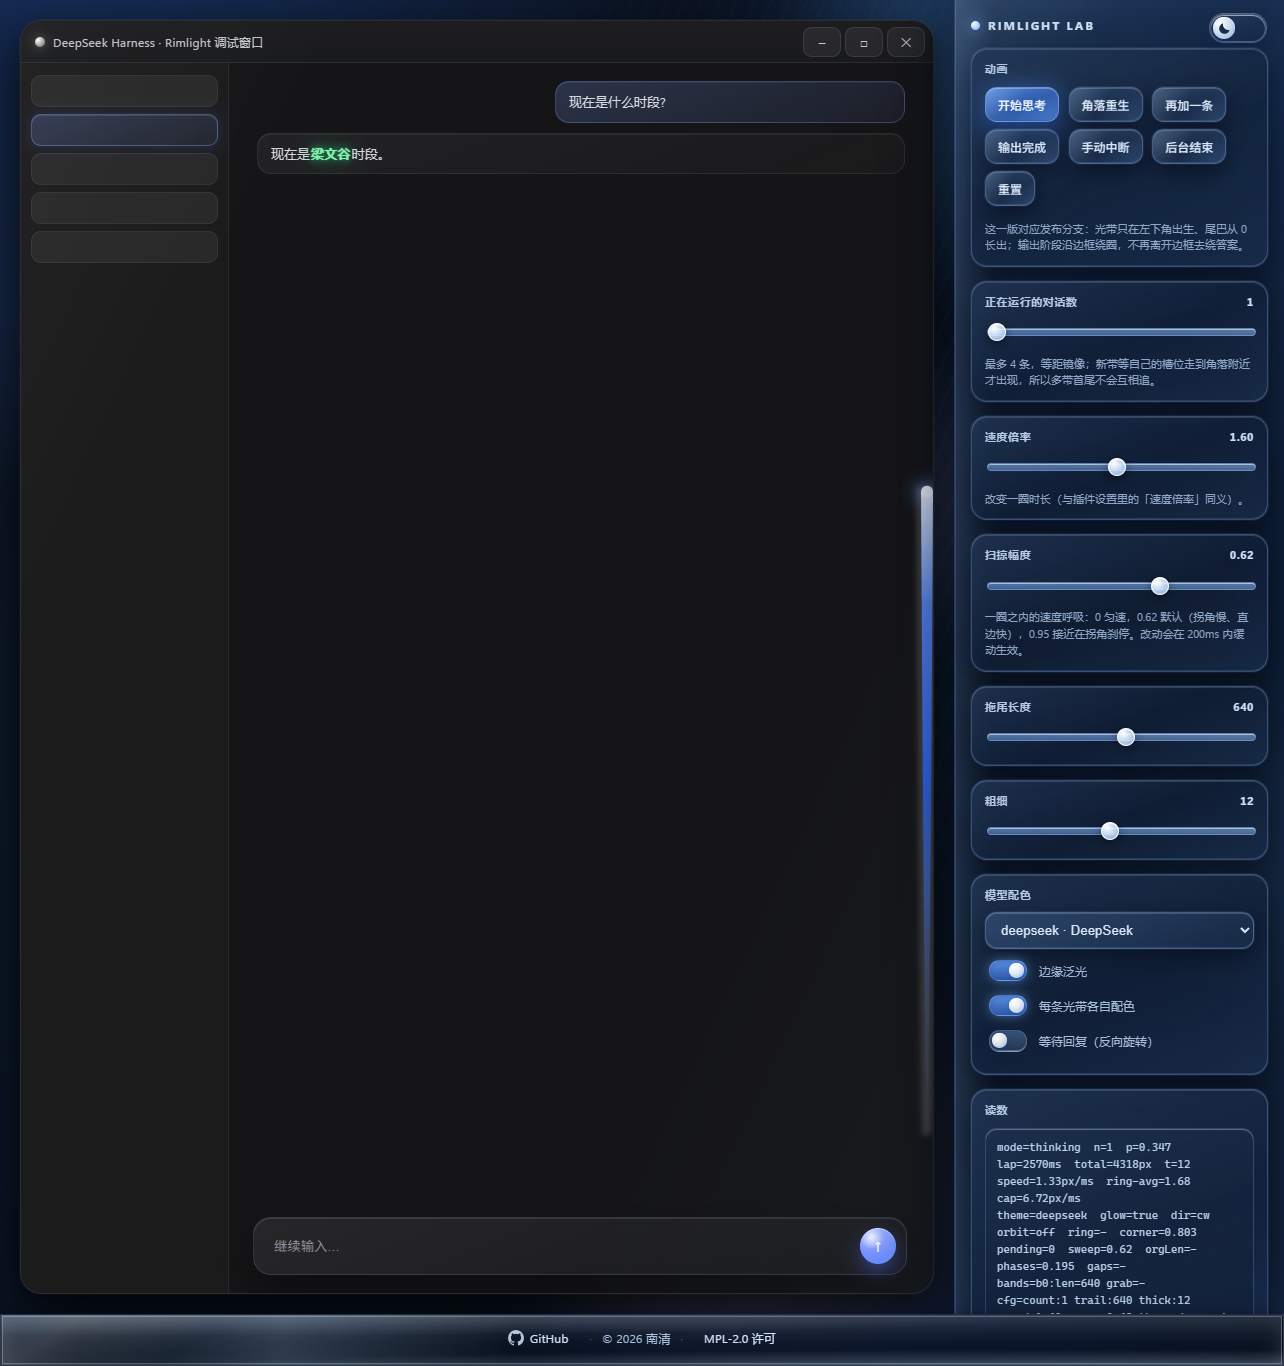
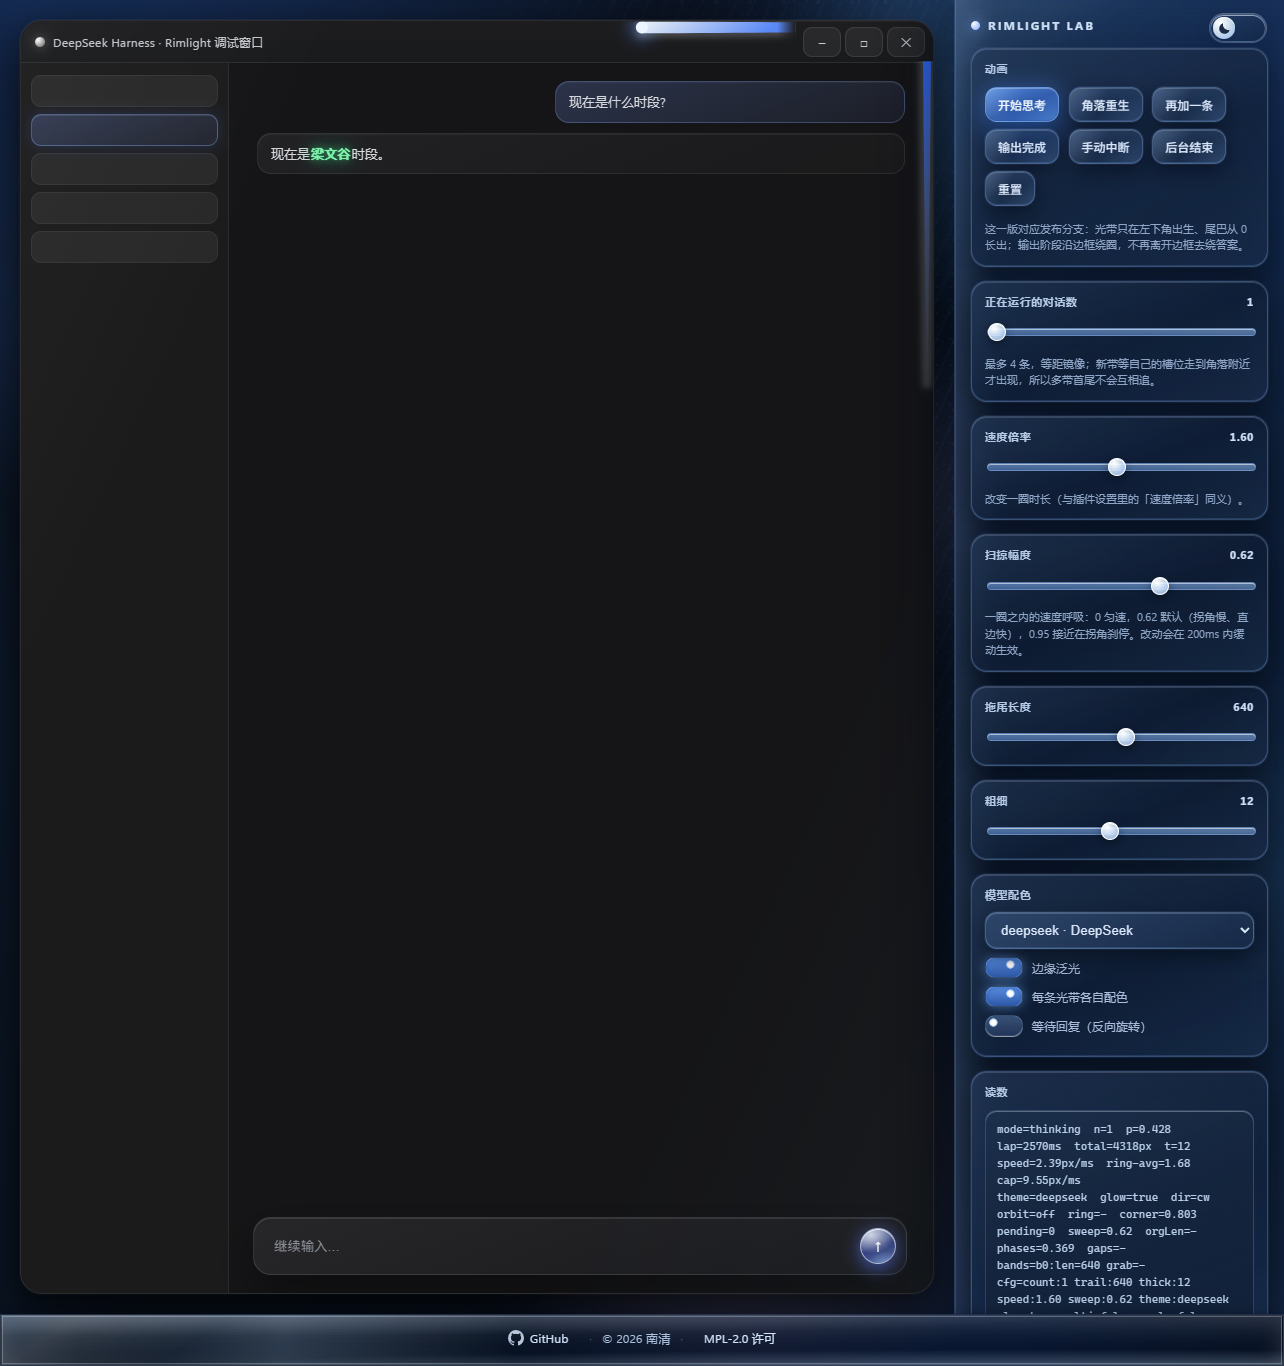
Guarantee a visible frost: texture behind the glass, blur fallback, glass send key

diff --git a/lab/rimlight-lab.html b/lab/rimlight-lab.html
@@ -25,6 +25,7 @@
 		--fr-sat: 190%;
 		--field-op: 0.60;
 		--tex-ink: rgba(150,190,255,0.10);
+		--tex-dot: rgba(180,214,255,0.22);
 		--tex-sheen: rgba(120,170,255,0.16);
 		--bg-grad:
 			radial-gradient(960px 560px at 6% -8%, rgba(38,86,168,0.55), transparent 64%),
@@ -39,13 +40,13 @@
 			0 18px 40px rgba(0,4,12,0.55),
 			0 3px 10px rgba(0,4,12,0.40);
 		--glass-sheen: rgba(190,220,255,0.20);
-		--panel-fill: linear-gradient(170deg, rgba(20,34,56,0.86), rgba(10,19,33,0.80) 48%, rgba(16,29,48,0.86));
+		--panel-fill: linear-gradient(170deg, rgba(20,34,56,0.78), rgba(10,19,33,0.70) 48%, rgba(16,29,48,0.78));
 		--panel-border: rgba(140,180,245,0.22);
 		--panel-shadow: -22px 0 60px rgba(0,6,16,0.55), 1px 0 0 rgba(160,196,250,0.16) inset, 0 0 46px rgba(40,80,150,0.22) inset;
 		--panel-sheen: linear-gradient(147deg, rgba(200,225,255,0.14) 0%, rgba(200,225,255,0.04) 8%, rgba(200,225,255,0) 24%), linear-gradient(90deg, rgba(200,225,255,0.10) 0%, rgba(200,225,255,0) 12%);
 		--scroll-thumb: rgba(110,155,225,0.42);
 		--hd-ink: #cfe0f6;
-		--card-fill: linear-gradient(158deg, rgba(38,58,88,0.72), rgba(21,35,57,0.56) 52%, rgba(31,50,78,0.64));
+		--card-fill: linear-gradient(158deg, rgba(38,58,88,0.66), rgba(21,35,57,0.48) 52%, rgba(31,50,78,0.58));
 		--card-border: rgba(150,192,255,0.26);
 		--card-shadow: 0 1px 0 rgba(255,255,255,0.14) inset, 0 -1px 0 rgba(110,160,230,0.20) inset, 0 12px 28px rgba(0,5,14,0.45), 0 0 0 1px rgba(150,192,255,0.10);
 		--label-ink: #b6cae6;
@@ -73,11 +74,11 @@
 		--chk-fill: linear-gradient(180deg, rgba(120,160,212,0.40), rgba(60,92,140,0.38));
 		--chk-border: rgba(150,192,255,0.26);
 		--chk-on: linear-gradient(180deg, rgba(96,150,238,0.92), rgba(50,98,186,0.86));
-		--chk-thumb: radial-gradient(circle at 32% 26%, #fff, rgba(255,255,255,0.86) 45%, rgba(150,190,240,0.95));
+		--chk-thumb: radial-gradient(circle closest-side at 36% 30%, #ffffff 0 46%, rgba(255,255,255,0.90) 66%, rgba(158,196,246,0.96) 88%, rgba(158,196,246,0) 100%);
 		--readout-fill: linear-gradient(158deg, rgba(28,45,72,0.80), rgba(15,27,45,0.66));
 		--readout-ink: #b9cee9;
 		--readout-border: rgba(150,192,255,0.22);
-		--footer-bg: linear-gradient(180deg, rgba(14,24,40,0.60), rgba(8,15,26,0.82));
+		--footer-bg: linear-gradient(180deg, rgba(14,24,40,0.42), rgba(8,15,26,0.62));
 		--footer-border: rgba(140,180,240,0.18);
 		--footer-ink: #9db3d2;
 		--footer-link: #d3e3fa;
@@ -134,6 +135,7 @@
 		--edge-soft: rgba(140,178,232,0.26);
 		--field-op: 0.46;
 		--tex-ink: rgba(255,255,255,0.40);
+		--tex-dot: rgba(46,92,170,0.22);
 		--tex-sheen: rgba(255,255,255,0.50);
 		--bg-grad:
 			radial-gradient(960px 560px at 6% -8%, rgba(168,205,255,0.36), transparent 64%),
@@ -149,13 +151,13 @@
 			0 2px 6px rgba(46,102,186,0.08),
 			0 0 22px rgba(180,214,255,0.30);
 		--glass-sheen: rgba(255,255,255,0.72);
-		--panel-fill: linear-gradient(170deg, rgba(240,249,255,0.52), rgba(206,232,255,0.22) 48%, rgba(228,243,255,0.38));
+		--panel-fill: linear-gradient(170deg, rgba(240,249,255,0.44), rgba(206,232,255,0.16) 48%, rgba(228,243,255,0.30));
 		--panel-border: rgba(255,255,255,0.80);
 		--panel-shadow: -22px 0 60px rgba(40,92,176,0.14), 1px 0 0 rgba(255,255,255,0.85) inset, 0 0 44px rgba(200,226,255,0.35) inset;
 		--panel-sheen: linear-gradient(147deg, rgba(255,255,255,0.60) 0%, rgba(255,255,255,0.14) 8%, rgba(255,255,255,0) 24%), linear-gradient(90deg, rgba(255,255,255,0.45) 0%, rgba(255,255,255,0) 12%);
 		--scroll-thumb: rgba(120,158,214,0.42);
 		--hd-ink: #26395a;
-		--card-fill: linear-gradient(158deg, rgba(240,250,255,0.62), rgba(206,232,255,0.28) 52%, rgba(224,242,255,0.44));
+		--card-fill: linear-gradient(158deg, rgba(240,250,255,0.54), rgba(206,232,255,0.22) 52%, rgba(224,242,255,0.38));
 		--card-border: rgba(255,255,255,0.88);
 		--card-shadow: 0 1px 0 rgba(255,255,255,1) inset, 0 -1px 0 rgba(180,206,238,0.42) inset, 0 10px 26px rgba(46,102,186,0.12), 0 0 0 1px rgba(255,255,255,0.70);
 		--label-ink: #55698c;
@@ -183,11 +185,11 @@
 		--chk-fill: linear-gradient(180deg, rgba(255,255,255,0.60), rgba(222,238,252,0.46));
 		--chk-border: rgba(255,255,255,0.90);
 		--chk-on: linear-gradient(180deg, rgba(190,220,255,0.95), rgba(140,184,248,0.78));
-		--chk-thumb: radial-gradient(circle at 32% 26%, #fff, rgba(255,255,255,0.88) 45%, rgba(200,224,252,0.95));
+		--chk-thumb: radial-gradient(circle closest-side at 36% 30%, #ffffff 0 46%, rgba(255,255,255,0.94) 66%, rgba(204,226,252,0.96) 88%, rgba(204,226,252,0) 100%);
 		--readout-fill: linear-gradient(158deg, rgba(242,251,255,0.70), rgba(210,234,255,0.34));
 		--readout-ink: #2f4a6e;
 		--readout-border: rgba(255,255,255,0.88);
-		--footer-bg: linear-gradient(180deg, rgba(255,255,255,0.34), rgba(255,255,255,0.66));
+		--footer-bg: linear-gradient(180deg, rgba(255,255,255,0.26), rgba(255,255,255,0.52));
 		--footer-border: rgba(255,255,255,0.80);
 		--footer-ink: #5c729a;
 		--footer-link: #2b4468;
@@ -272,8 +274,11 @@
 		pointer-events: none;
 		opacity: 0.55;
 		background-image:
+			radial-gradient(circle at 2px 2px, var(--tex-dot) 1.6px, rgba(255,255,255,0) 2.4px),
+			radial-gradient(circle at 1px 1px, var(--tex-dot) 1px, rgba(255,255,255,0) 1.7px),
 			repeating-linear-gradient(114deg, var(--tex-ink) 0 3px, rgba(255,255,255,0) 3px 16px),
 			linear-gradient(115deg, rgba(255,255,255,0) 0 62%, var(--tex-sheen) 74%, rgba(255,255,255,0) 86%);
+		background-size: 34px 34px, 13px 13px, auto, auto;
 		-webkit-mask-image: radial-gradient(80% 70% at 82% 30%, rgba(0,0,0,0.85), rgba(0,0,0,0) 72%);
 		mask-image: radial-gradient(80% 70% at 82% 30%, rgba(0,0,0,0.85), rgba(0,0,0,0) 72%);
 	}
@@ -287,7 +292,6 @@
 		background: var(--toggle-fill);
 		-webkit-backdrop-filter: blur(10px) saturate(170%);
 		backdrop-filter: blur(10px) saturate(170%);
-		backdrop-filter: url(#lg-refract) blur(10px) saturate(170%);
 		box-shadow: 0 1px 0 rgba(255,255,255,0.55) inset, 0 6px 16px rgba(10,30,70,0.28), 0 0 0 1px rgba(255,255,255,0.30);
 		transition: background 260ms ease, border-color 260ms ease, box-shadow 260ms ease;
 	}
@@ -314,7 +318,6 @@
 		background: var(--glass-fill);
 		-webkit-backdrop-filter: blur(var(--fr-blur)) saturate(var(--fr-sat));
 		backdrop-filter: blur(var(--fr-blur)) saturate(var(--fr-sat));
-		backdrop-filter: url(#lg-refract) blur(var(--fr-blur)) saturate(var(--fr-sat));
 		border: 1px solid var(--glass-rim);
 		box-shadow: var(--glass-shadow);
 	}
@@ -395,12 +398,32 @@
 		box-shadow: var(--fr-composer-shadow);
 		transition: background 320ms ease, color 240ms ease, border-color 320ms ease, box-shadow 320ms ease;
 	}
+	/* send key: a blue glass bead rather than a flat gradient */
 	#frame #send {
+		position: relative; overflow: hidden;
 		margin-left: auto; width: 36px; height: 36px; border-radius: 50%; flex: 0 0 auto; color: #fff; font-size: 15px;
 		display: flex; align-items: center; justify-content: center; cursor: pointer; user-select: none;
-		background: radial-gradient(circle at 32% 26%, rgba(255,255,255,0.9), rgba(255,255,255,0.2) 34%, rgba(110,150,255,0.8) 70%), linear-gradient(180deg, #7f9bff, #4d6bfe);
-		box-shadow: 0 8px 20px rgba(77,107,254,0.45), 0 1px 0 rgba(255,255,255,0.6) inset;
+		background: linear-gradient(158deg, rgba(150,182,255,0.66), rgba(77,107,254,0.42) 52%, rgba(126,164,255,0.56));
+		-webkit-backdrop-filter: blur(8px) saturate(185%);
+		backdrop-filter: blur(8px) saturate(185%);
+		border: 1px solid rgba(255,255,255,0.55);
+		box-shadow:
+			0 1px 0 rgba(255,255,255,0.80) inset,
+			0 -1px 0 rgba(48,78,190,0.40) inset,
+			0 7px 18px rgba(77,107,254,0.38),
+			0 0 18px rgba(110,150,255,0.35);
+		transition: transform 140ms ease, box-shadow 180ms ease, background 320ms ease;
 	}
+	#frame #send::before {
+		content: ""; position: absolute; inset: 0; border-radius: 50%; pointer-events: none;
+		background:
+			radial-gradient(120% 92% at 30% 18%, rgba(255,255,255,0.72), rgba(255,255,255,0) 58%),
+			radial-gradient(90% 70% at 74% 108%, rgba(140,180,255,0.55), rgba(255,255,255,0) 62%);
+		mix-blend-mode: screen;
+	}
+	#frame #send:hover { transform: translateY(-1px); box-shadow: 0 1px 0 rgba(255,255,255,0.9) inset, 0 -1px 0 rgba(48,78,190,0.42) inset, 0 10px 22px rgba(77,107,254,0.45), 0 0 26px rgba(120,160,255,0.45); }
+	#frame #send:active { transform: translateY(1px) scale(0.985); }
+	html[data-theme="light"] #frame #send { color: #f4f8ff; }
 	#frame #ask { flex: 1 1 auto; min-width: 0; background: transparent; border: 0; outline: 0; color: var(--fr-ink); font: 15px/1.45 inherit; }
 	#frame #ask::placeholder { color: var(--fr-placeholder); }
 	#frame .bubble .glass-word { display: inline; padding: 0; margin: 0 1px; border: 0; border-radius: 0; background: none; font-weight: 600; letter-spacing: 0.02em; vertical-align: baseline; }
@@ -417,7 +440,6 @@
 		background: var(--panel-fill);
 		-webkit-backdrop-filter: blur(30px) saturate(185%);
 		backdrop-filter: blur(30px) saturate(185%);
-		backdrop-filter: url(#lg-refract) blur(30px) saturate(185%);
 		border-left: 1px solid var(--panel-border);
 		box-shadow: var(--panel-shadow);
 		scrollbar-width: thin;
@@ -441,7 +463,6 @@
 		background: var(--card-fill);
 		-webkit-backdrop-filter: blur(10px) saturate(160%);
 		backdrop-filter: blur(10px) saturate(160%);
-		backdrop-filter: url(#lg-refract) blur(10px) saturate(160%);
 		border: 1px solid var(--card-border);
 		box-shadow: var(--card-shadow);
 		transition: background 320ms ease, border-color 320ms ease, box-shadow 320ms ease;
@@ -456,7 +477,6 @@
 		background: var(--btn-fill);
 		-webkit-backdrop-filter: blur(12px) saturate(170%);
 		backdrop-filter: blur(12px) saturate(170%);
-		backdrop-filter: url(#lg-refract) blur(12px) saturate(170%);
 		box-shadow: var(--btn-shadow);
 		transition: transform 130ms ease, box-shadow 170ms ease, background 170ms ease, color 170ms ease;
 	}
@@ -494,13 +514,24 @@
 		box-shadow: var(--thumb-shadow);
 	}
 
+	#panel input[type=range]::-moz-range-track {
+		height: 8px; border-radius: 999px;
+		background: var(--track-fill);
+		border: 1px solid var(--track-border);
+		box-shadow: 0 1px 0 rgba(255,255,255,0.55) inset, 0 1px 3px rgba(20,50,100,0.22) inset;
+	}
+	#panel input[type=range]::-moz-range-thumb {
+		width: 16px; height: 16px; border-radius: 50%; border: 1px solid rgba(255,255,255,0.9);
+		background: var(--thumb-fill);
+		box-shadow: var(--thumb-shadow);
+	}
+
 	#panel select {
 		width: 100%; padding: 9px 11px; border-radius: 12px; color: var(--select-ink); font-weight: 500;
 		border: 1px solid var(--btn-border);
 		background: var(--select-fill);
 		-webkit-backdrop-filter: blur(12px) saturate(170%);
 		backdrop-filter: blur(12px) saturate(170%);
-		backdrop-filter: url(#lg-refract) blur(12px) saturate(170%);
 		box-shadow: var(--btn-shadow);
 		outline: none;
 		transition: background 320ms ease, color 240ms ease;
@@ -509,26 +540,24 @@
 	#panel .val { color: var(--val-ink); font-variant-numeric: tabular-nums; font-weight: 700; }
 	#panel .hint { font-size: 11px; color: var(--hint-ink); margin-top: 8px; line-height: 1.5; }
 
-	/* switches: glass capsule, glass thumb */
+	/* switch: the knob is a background layer, because Gecko ignores ::after on inputs */
 	#panel .chk { display: flex; align-items: center; gap: 9px; margin: 8px 0; font-size: 12px; color: var(--ink-soft); }
 	#panel .chk input {
-		appearance: none; width: 38px; height: 21px; border-radius: 999px; position: relative; cursor: pointer;
-		background: var(--chk-fill);
+		appearance: none; -webkit-appearance: none;
+		width: 38px; height: 21px; border-radius: 999px; cursor: pointer; margin: 0; flex: 0 0 auto;
 		border: 1px solid var(--chk-border);
+		background-image: var(--chk-thumb), var(--chk-fill);
+		background-size: 15px 15px, 100% 100%;
+		background-position: 2px 50%, 0 0;
+		background-repeat: no-repeat, no-repeat;
 		box-shadow: 0 1px 3px rgba(20,50,100,0.24) inset, 0 1px 0 rgba(255,255,255,0.55);
-		transition: background 180ms ease, box-shadow 180ms ease;
-	}
-	#panel .chk input::after {
-		content: ""; position: absolute; top: 2px; left: 2px; width: 15px; height: 15px; border-radius: 50%;
-		background: var(--chk-thumb);
-		box-shadow: 0 2px 6px rgba(20,50,100,0.35), 0 1px 0 rgba(255,255,255,0.85) inset;
-		transition: transform 180ms cubic-bezier(0.34, 1.3, 0.64, 1);
+		transition: background-position 200ms cubic-bezier(0.34, 1.3, 0.64, 1), box-shadow 180ms ease;
 	}
 	#panel .chk input:checked {
-		background: var(--chk-on);
+		background-image: var(--chk-thumb), var(--chk-on);
+		background-position: calc(100% - 2px) 50%, 0 0;
 		box-shadow: 0 1px 4px rgba(20,60,140,0.35) inset, 0 0 12px rgba(110,165,245,0.55);
 	}
-	#panel .chk input:checked::after { transform: translateX(17px); }
 
 	#readout {
 		font: 11px/1.55 ui-monospace, "Cascadia Code", Consolas, monospace; color: var(--readout-ink); white-space: pre-wrap; margin: 0;
@@ -567,6 +596,32 @@
 	#footer a:hover svg { opacity: 1; }
 	#footer .sep { color: var(--footer-sep); user-select: none; }
 	#footer .copy { color: var(--footer-copy); }
+
+	/* Liquid glass needs an SVG filter as a backdrop, which only Chromium-family
+	   engines can do. Every surface already has a plain frost above; the line below
+	   upgrades them to the real refraction when <html class="refract"> is present
+	   (set by the inline probe at the top of <body>
+<script>
+(function () {
+	try {
+		var gecko = CSS.supports("-moz-appearance", "none");
+		var chromium = !gecko && (!!window.chrome || !!navigator.userAgentData) && CSS.supports("backdrop-filter", "blur(1px)");
+		if (chromium) document.documentElement.classList.add("refract");
+	} catch (e) {}
+})();
+</script>). Firefox / Safari keep the
+	   Gaussian blur instead of silently losing the glass. */
+	html.refract .lg { backdrop-filter: url(#lg-refract) blur(var(--fr-blur)) saturate(var(--fr-sat)); }
+	html.refract #panel { backdrop-filter: url(#lg-refract) blur(30px) saturate(185%); }
+	html.refract #panel .grp { backdrop-filter: url(#lg-refract) blur(10px) saturate(160%); }
+	html.refract #panel button,
+	html.refract #panel select,
+	html.refract #theme-toggle { backdrop-filter: url(#lg-refract) blur(12px) saturate(170%); }
+	html.refract #readout { backdrop-filter: url(#lg-refract) blur(8px) saturate(150%); }
+	html.refract #frame,
+	html.refract #frame .composer { backdrop-filter: url(#lg-refract) blur(22px) saturate(140%); }
+	html.refract #frame #send { backdrop-filter: url(#lg-refract) blur(8px) saturate(185%); }
+	html.refract #footer { backdrop-filter: url(#lg-refract) blur(18px) saturate(160%); }
 
 	@supports not ((backdrop-filter: blur(1px)) or (-webkit-backdrop-filter: blur(1px))) {
 		.lg, #panel, #panel .grp, #panel button, #panel select, #readout { background-color: var(--fallback-bg); backdrop-filter: none; -webkit-backdrop-filter: none; }
